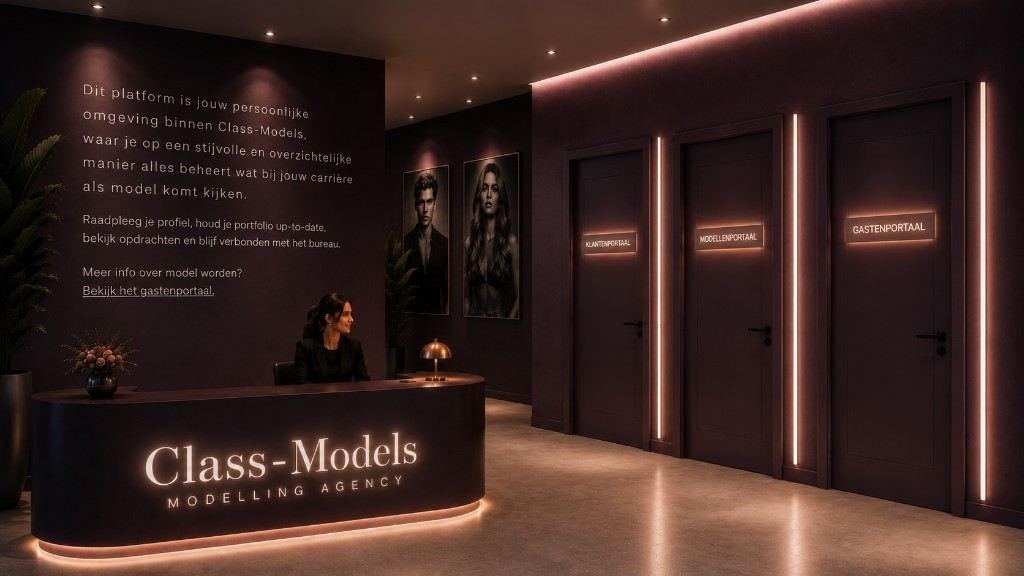
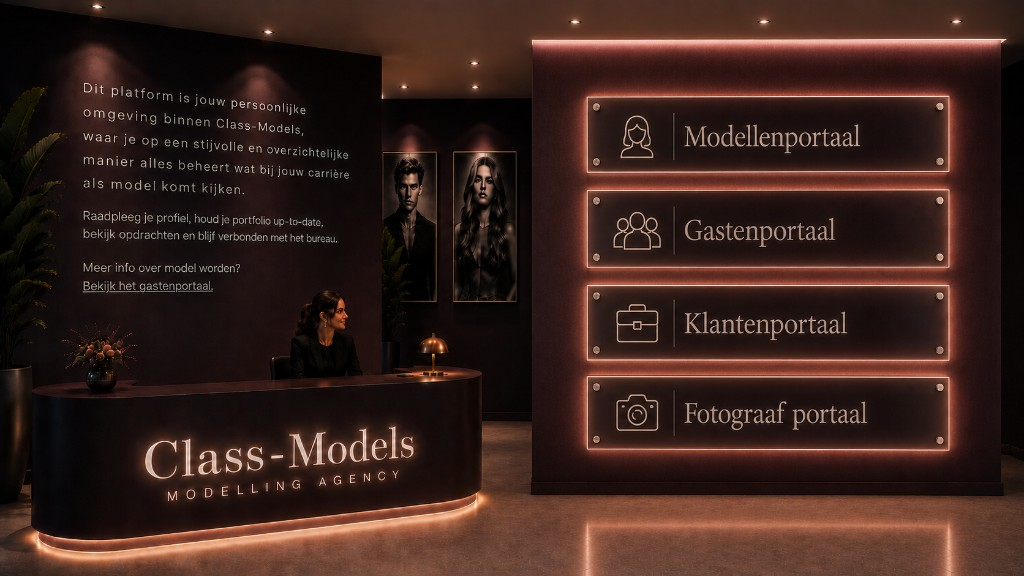
Begin page: new lobby with 4 portal panels + fade to model login.
Use the new lobby image (four illuminated portal panels) as the start page with
plain pointer-cursor hotspots (no boxes). Clicking a portal goes to its page;
the model portal fades into the model-login image with a real, full login form
covering the drawn panel (no field overlays). Photographer now has its own panel.

diff --git a/apps/web/src/components/BeginLanding.tsx b/apps/web/src/components/BeginLanding.tsx
@@ -37,11 +37,9 @@ function DoorButton({
       type="button"
       onClick={onClick}
       aria-label={label}
-      className="group absolute cursor-pointer outline-none"
+      className="absolute cursor-pointer bg-transparent outline-none"
       style={style}
-    >
-      <span className="block h-full w-full rounded-[10px] bg-transparent shadow-none transition duration-300 ease-out group-hover:bg-[radial-gradient(ellipse_at_center,_rgba(255,210,170,0.16),_transparent_70%)] group-hover:shadow-[inset_0_0_30px_rgba(255,205,160,0.18)] group-focus-visible:bg-[radial-gradient(ellipse_at_center,_rgba(255,210,170,0.16),_transparent_70%)]" />
-    </button>
+    />
   );
 }
 
@@ -236,19 +234,28 @@ export function BeginLanding() {
               draggable={false}
             />
             <DoorButton
-              label="Klantenportaal"
-              onClick={() => openPortalDoor('client')}
-              style={{ left: '54.8%', top: '20%', width: '10.5%', height: '70%' }}
-            />
-            <DoorButton
               label="Modellenportaal"
               onClick={() => openPortalDoor('model')}
-              style={{ left: '68%', top: '20%', width: '9.8%', height: '70%' }}
+              style={{ left: '55.3%', top: '15%', width: '37.8%', height: '13.5%' }}
             />
             <DoorButton
               label="Gastenportaal"
               onClick={goGuest}
-              style={{ left: '80%', top: '19%', width: '11.8%', height: '71%' }}
+              style={{ left: '55.3%', top: '31.5%', width: '37.8%', height: '13.5%' }}
+            />
+            <DoorButton
+              label="Klantenportaal"
+              onClick={() => openPortalDoor('client')}
+              style={{ left: '55.3%', top: '48.5%', width: '37.8%', height: '13.5%' }}
+            />
+            <DoorButton
+              label="Fotograaf portaal"
+              onClick={() => {
+                setTab('photographer');
+                setSubMode('login');
+                setErr(null);
+              }}
+              style={{ left: '55.3%', top: '65.5%', width: '37.8%', height: '13.5%' }}
             />
           </div>
         </div>
@@ -272,14 +279,14 @@ export function BeginLanding() {
                   draggable={false}
                 />
 
-                {/* Eén volledig login-paneel, in het perspectief van de muur gekanteld. */}
+                {/* Eén volledig, echt login-paneel dat het getekende paneel volledig afdekt. */}
                 <div
-                  className="absolute [perspective:1100px]"
-                  style={{ left: '55.3%', top: '14%', width: '39%', height: '62%' }}
+                  className="absolute"
+                  style={{ left: '53.5%', top: '23%', width: '37.5%', height: '48%' }}
                 >
                 <form
                   onSubmit={onModelLogin}
-                  className="absolute inset-0 flex flex-col justify-center rounded-2xl border border-amber-200/15 bg-[linear-gradient(160deg,_rgba(28,18,24,0.97),_rgba(18,11,16,0.98))] px-[5%] py-[4%] text-white shadow-[0_0_50px_rgba(255,170,130,0.16),inset_0_0_30px_rgba(255,170,130,0.05)] [transform:rotateY(-14deg)] [transform-origin:center]"
+                  className="absolute inset-0 flex flex-col justify-center rounded-2xl border border-amber-200/15 bg-[linear-gradient(160deg,_rgba(26,17,22,0.98),_rgba(15,10,14,0.99))] px-[4.5%] py-[3.5%] text-white shadow-[0_0_40px_rgba(255,170,130,0.12)]"
                 >
                   <h2 className="font-serif text-[clamp(13px,2.1vw,26px)] font-semibold tracking-tight text-white">
                     <CmText contentKey="begin.modelLoginTitle" as="span" fallback={t('begin.modelLoginTitle')} />
@@ -716,17 +723,6 @@ export function BeginLanding() {
           </div>
         </div>
       ) : null}
-
-      <button
-        type="button"
-        onClick={() => {
-          setTab('photographer');
-          setErr(null);
-        }}
-        className="fixed bottom-3 right-4 z-40 text-[11px] text-white/55 underline underline-offset-2 hover:text-white/90"
-      >
-        Fotograaf login
-      </button>
     </div>
   );
 }
